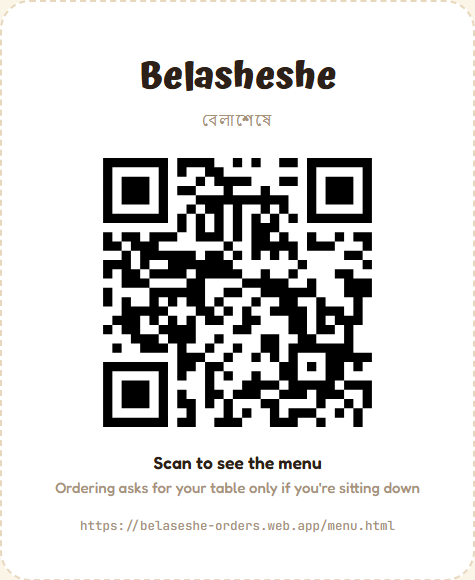
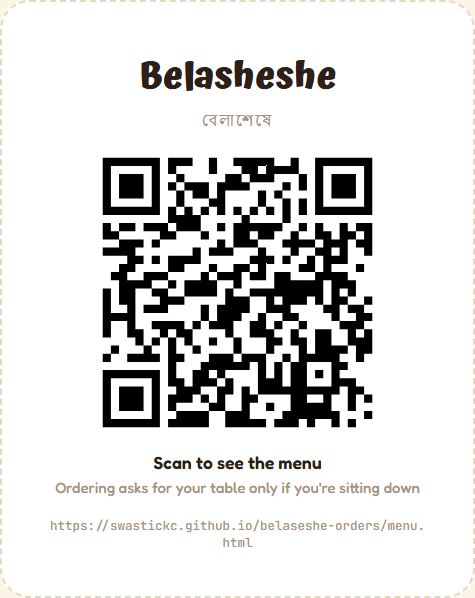
Point unified shop QR at the real GitHub Pages URL

diff --git a/scripts/generate-qr.js b/scripts/generate-qr.js
@@ -1,14 +1,13 @@
 // One-off script: generates the unified shop QR code as a standalone SVG file.
 // Run with: node scripts/generate-qr.js
 //
-// The URL below is Firebase Hosting's default domain for this project
-// (always <project-id>.web.app once Hosting is deployed). If a custom
-// domain is added later, regenerate with that URL instead.
+// This app is hosted on GitHub Pages (not Firebase Hosting) — update this
+// URL if the repo/username or hosting method ever changes.
 const fs = require('fs');
 const path = require('path');
 const qrcode = require('../vendor/qrcode.js');
 
-const TARGET_URL = 'https://belaseshe-orders.web.app/menu.html';
+const TARGET_URL = 'https://swastickc.github.io/belaseshe-orders/menu.html';
 
 const qr = qrcode(0, 'M');
 qr.addData(TARGET_URL);
